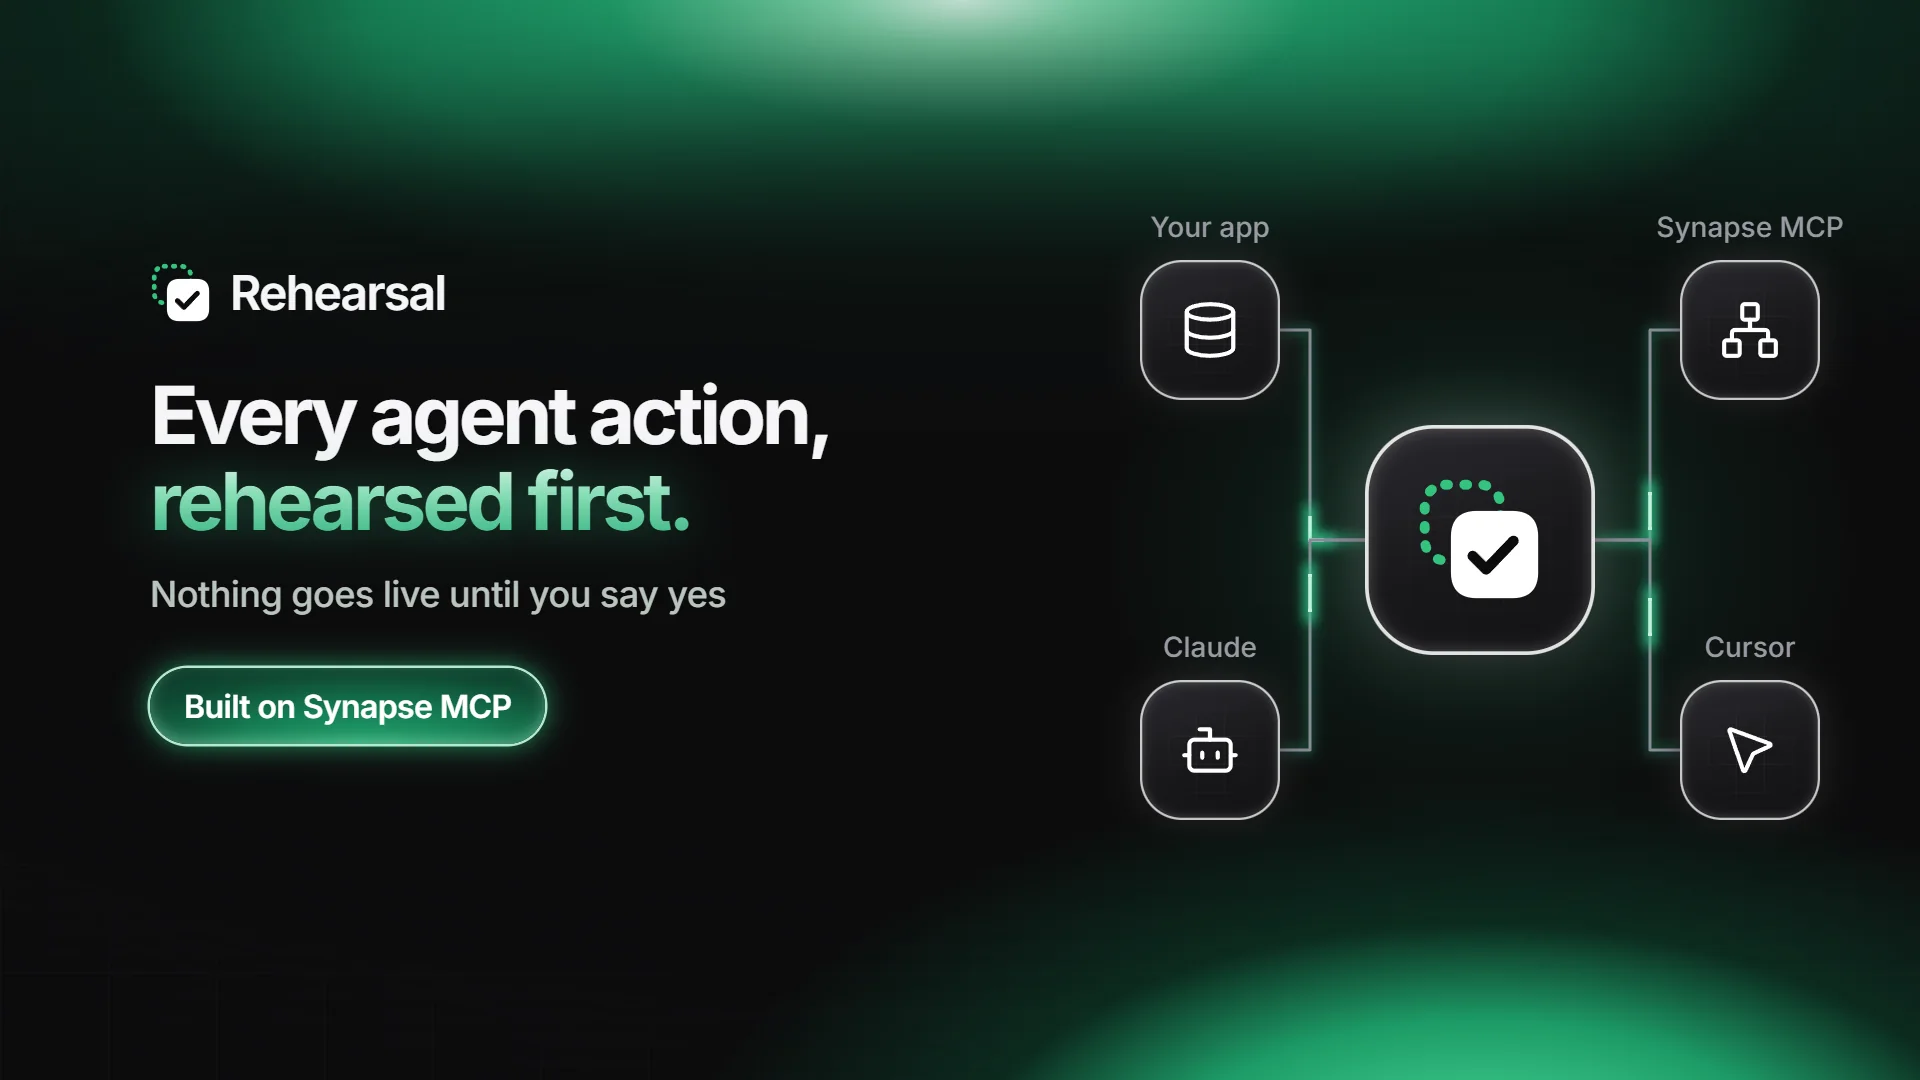
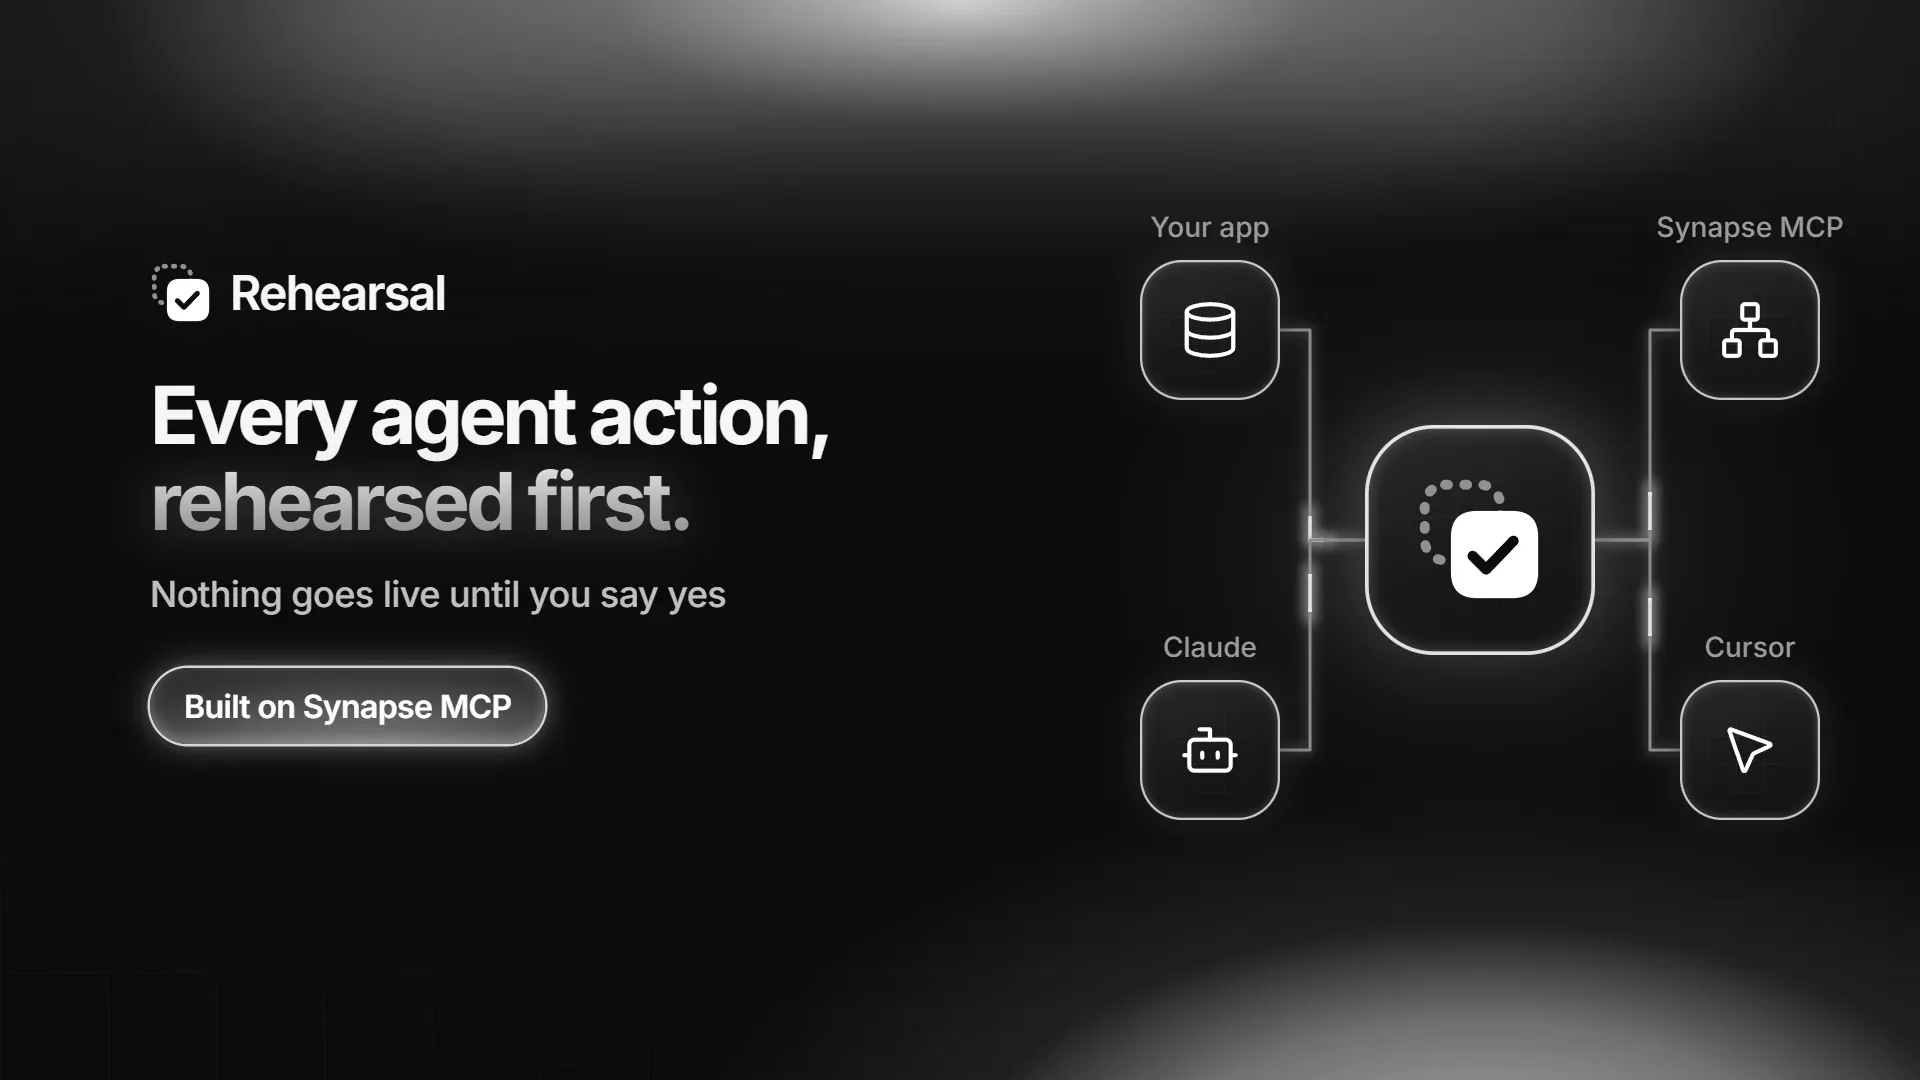
The film in black and white, to match the new design
The poster, thumbnail and film are converted from the master; the narration and scenes are unchanged.

diff --git a/site/index.html b/site/index.html
@@ -155,9 +155,9 @@
           <p class="lead">What it does, how it stops a bad call before it reaches your app, and how a yes goes live.</p>
         </div>
         <figure class="film">
-          <video controls preload="metadata" playsinline poster="/assets/film/poster.webp?v=1" aria-labelledby="film-title"
+          <video controls preload="metadata" playsinline poster="/assets/film/poster.webp?v=2" aria-labelledby="film-title"
             controlslist="nodownload noplaybackrate noremoteplayback" disablepictureinpicture disableremoteplayback>
-            <source src="/assets/film/rehearsal-film.mp4?v=1" type="video/mp4">
+            <source src="/assets/film/rehearsal-film.mp4?v=2" type="video/mp4">
             <track kind="captions" src="/assets/film/rehearsal-film.vtt?v=1" srclang="en" label="English">
           </video>
           <button type="button" class="film-play" hidden aria-label="Play the film, 48 seconds">
